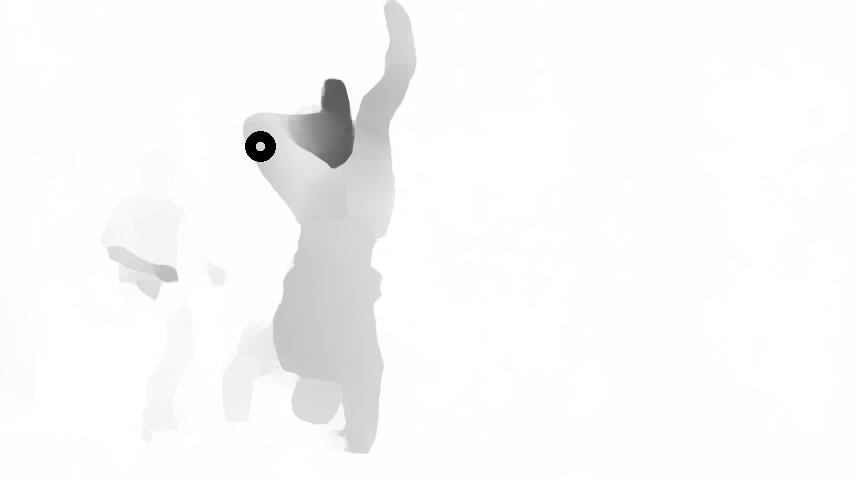
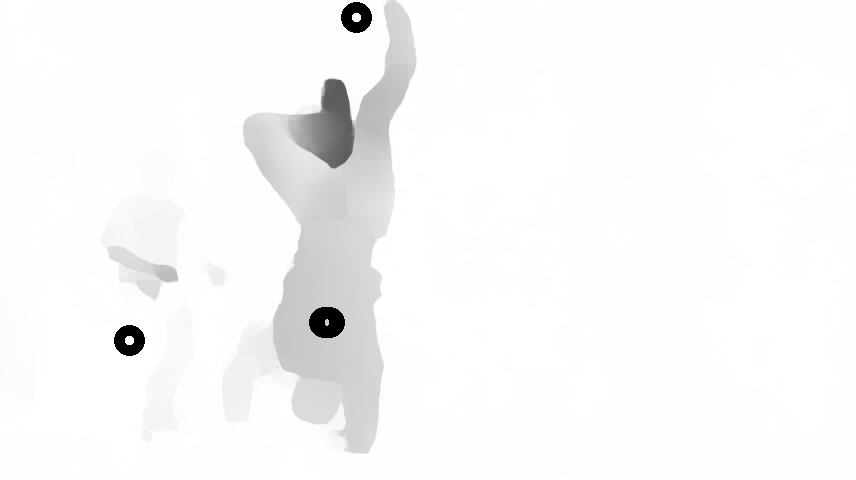
bugfix if all pixels surrounding are white don't dvidie sum(b)

diff --git a/raft/meanshift.py b/raft/meanshift.py
@@ -60,36 +60,40 @@ def mark_centroids(grayscale, cluster_centers, img_name_suff=""):
     )
 
 
-def mean_shift_custom(image, n_points=1, n_iter=10, radius=50):
+def mean_shift_custom(image, n_points=10, n_iter=50, radius=50):
     image = np.array(image)
     w, h = image.shape
 
     print(f"w: {w}, h: {h}")
 
-    # points = np.array(
-    #     [
-    #         (x, y)
-    #         for x, y in zip(
-    #             random.sample(range(0, w), n_points),
-    #             random.sample(range(0, h), n_points),
-    #         )
-    #     ]
-    # )
-    points = np.array([[300, 200]])
+    points = np.array(
+        [
+            (x, y)
+            for x, y in zip(
+                random.sample(range(0, w), n_points),
+                random.sample(range(0, h), n_points),
+            )
+        ]
+    )
+
+    # print(f"points: {points}")
+
+    # points = np.array([[300, 200]])
 
     mark_centroids(copy.deepcopy(image), points, img_name_suff=f"-0")
 
     cur_iter = 1
 
     while cur_iter <= n_iter:
+        print(f"cur_iter: {cur_iter}")
         for i, (r, c) in enumerate(points):
             r, c = round(r), round(c)
 
-            min_r, max_r = max(0, r - radius), min(h, r + radius)
-            min_c, max_c = max(0, c - radius), min(w, c + radius)
+            min_r, max_r = max(0, r - radius), min(h - 1, r + radius)
+            min_c, max_c = max(0, c - radius), min(w - 1, c + radius)
 
-            print(f"surr_r: [{min_r}, {max_r}]")
-            print(f"surr_c: [{min_c}, {max_c}]")
+            # print(f"surr_r: [{min_r}, {max_r}]")
+            # print(f"surr_c: [{min_c}, {max_c}]")
 
             a = np.array(
                 [
@@ -109,9 +113,12 @@ def mean_shift_custom(image, n_points=1, n_iter=10, radius=50):
                 ]
             )
 
-            print(f"a.shape: {a.shape}, b.shape: {b.shape}")
+            # print(f"a.shape: {a.shape}, b.shape: {b.shape}")
 
-            points[i] = sum(a * np.expand_dims(b, axis=1)) / sum(b)
+            if sum(b) != 0:
+                points[i] = sum(a * np.expand_dims(b, axis=1)) / sum(b)
+
+            # if the sum is 0 that means all surrounding pixels are pure white 255. For now if that's the case don't update points which makes sense logically speaking
 
         mark_centroids(copy.deepcopy(image), points, img_name_suff=f"-{cur_iter}")
 
